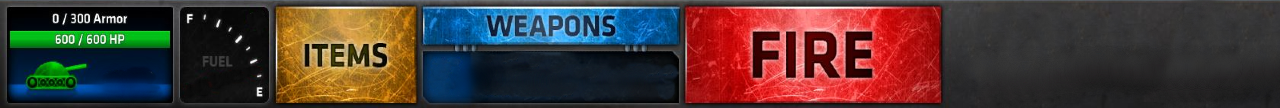
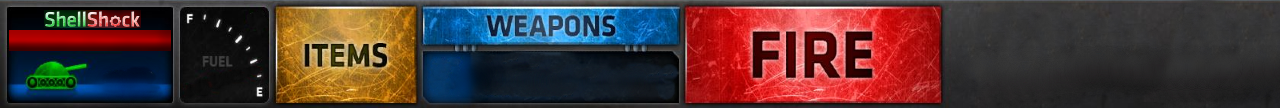
add hp bar in gui_control

Changed region(s): [[0.0, 0.0833, 0.1562, 0.4722]]

diff --git a/gui.py b/gui.py
@@ -35,10 +35,13 @@ class GUI:
 
 class GUI_HP(GUI):
     image : Image = None
+    image_control : Image = None
+    position_control = (90, 67)
 
     def __init__(self, owner):
         if GUI_HP.image == None:
             GUI_HP.image = load_image_path('hp_bar.png')
+            GUI_HP.image_control = load_image_path('gui_control_hp_bar.png')
 
         super().__init__(GUI_HP.image)
         self.owner = owner
@@ -52,14 +55,20 @@ class GUI_HP(GUI):
         self.invalidate()
 
     def draw(self):
+        from tank import get_crnt_tank, get_prev_tank
         if self.is_draw:
             self.image.draw(*self.position, self.width, self.height)
+
+        if self.owner == get_crnt_tank() or self.owner == get_prev_tank():
+            w = GUI_HP.image_control.w * (self.owner.hp / self.max_hp)
+            GUI_HP.image_control.draw(*GUI_HP.position_control, w, GUI_HP.image_control.h)
     
     def update(self):
         if self.is_draw:
             self.invalidate()
             self.position = (self.owner.center.x, self.owner.get_rect().top + 20)
             self.update_gauge()
+        gmap.set_invalidate_rect(GUI_HP.position_control, GUI_HP.image_control.w, GUI_HP.image_control.h, grid_size=0)
     
     def update_gauge(self):
         self.width = self.max_width * (self.owner.hp / self.max_hp)

diff --git a/tank.py b/tank.py
@@ -810,7 +810,11 @@ def get_tanks():
     for tank in tank_list:
         yield tank
     
+def get_crnt_tank():
+    return crnt_tank
 
+def get_prev_tank():
+    return prev_tank
 
 def read_data(file, mode):
     file.readline()
